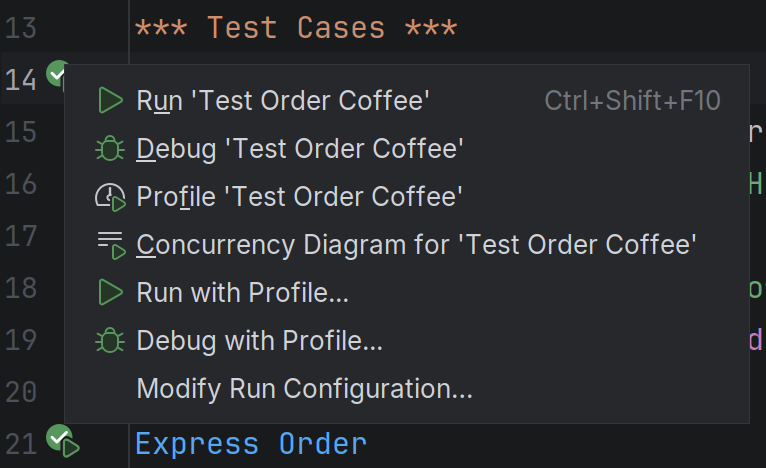
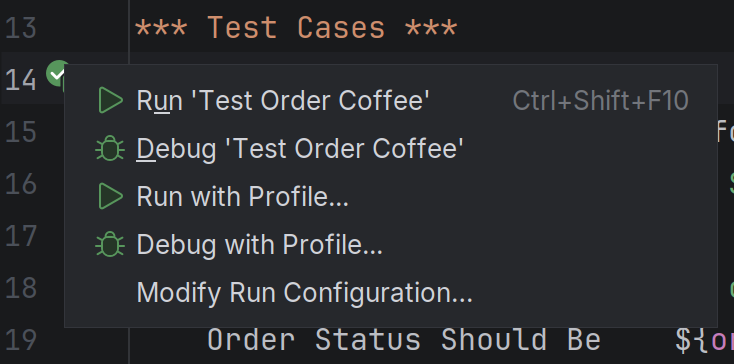
fix(intellij): leave PyCharm's profilers out of the run marker menu
The menu of a run marker no longer offers PyCharm Professional's Profile and
Concurrency Diagram, which Robot Framework runs don't support. Concurrency
Diagram, which More Run/Debug and the run widget still offer, now ends with a
message as Profile does, instead of running the test under PyCharm's debugger.

diff --git a/intellij-client/src/test/kotlin/dev/robotcode/robotcode4ij/execution/RobotCodeRunMarkerExecutorsTest.kt b/intellij-client/src/test/kotlin/dev/robotcode/robotcode4ij/execution/RobotCodeRunMarkerExecutorsTest.kt
@@ -1,0 +1,102 @@
+package dev.robotcode.robotcode4ij.execution
+
+import com.intellij.execution.Executor
+import com.intellij.execution.ExecutorRegistry
+import com.intellij.execution.executors.DefaultDebugExecutor
+import com.intellij.execution.executors.DefaultRunExecutor
+import com.intellij.execution.lineMarker.ExecutorAction
+import com.intellij.execution.lineMarker.RunLineMarkerContributor
+import com.intellij.icons.AllIcons
+import com.intellij.openapi.actionSystem.ActionManager
+import com.intellij.openapi.actionSystem.AnAction
+import com.intellij.openapi.wm.ToolWindowId
+import com.intellij.psi.PsiDocumentManager
+import com.intellij.testFramework.fixtures.BasePlatformTestCase
+import dev.robotcode.robotcode4ij.actions.DEBUG_WITH_PROFILE_ACTION_ID
+import dev.robotcode.robotcode4ij.actions.RUN_WITH_PROFILE_ACTION_ID
+import dev.robotcode.robotcode4ij.testing.Position
+import dev.robotcode.robotcode4ij.testing.Range
+import dev.robotcode.robotcode4ij.testing.RobotCodeTestItem
+import dev.robotcode.robotcode4ij.testing.testManger
+import dev.robotcode.robotcode4ij.testing.uri
+import javax.swing.Icon
+
+private const val OTHER_EXECUTOR_ID = "dev.robotcode.robotcode4ij.test.OtherExecutor"
+
+// an executor besides Run and Debug, as PyCharm Professional's profiler group is one; the platform registers its
+// context action, so that the gutter offers it
+private class OtherExecutor : Executor() {
+    override fun getToolWindowId(): String = ToolWindowId.RUN
+    override fun getToolWindowIcon(): Icon = AllIcons.Actions.Execute
+    override fun getIcon(): Icon = AllIcons.Actions.Execute
+    override fun getDisabledIcon(): Icon? = null
+    override fun getDescription(): String = "Runs with another tool"
+    override fun getActionName(): String = "Other"
+    override fun getId(): String = OTHER_EXECUTOR_ID
+    override fun getStartActionText(): String = "Run with Other"
+    override fun getContextActionId(): String = "$OTHER_EXECUTOR_ID.context"
+    override fun getHelpId(): String? = null
+}
+
+class RobotCodeRunMarkerExecutorsTest : BasePlatformTestCase() {
+
+    override fun setUp() {
+        super.setUp()
+        // the registry adds the context action of an executor that is registered later
+        ExecutorRegistry.getInstance()
+        Executor.EXECUTOR_EXTENSION_NAME.point.registerExtension(OtherExecutor(), testRootDisposable)
+    }
+
+    override fun tearDown() {
+        try {
+            project.testManger.setTestItemsForTests(arrayOf())
+        } finally {
+            super.tearDown()
+        }
+    }
+
+    // a test "First" on the second line of a suite file
+    private fun suiteWithOneTest() {
+        val file = myFixture.configureByText("suite.robot", "*** Test Cases ***\nFirst\n    Log    first\n").virtualFile
+        val test = RobotCodeTestItem(
+            type = "test", id = "suite.First", name = "First", longname = "Suite.First", lineno = 2,
+            uri = file.uri, source = file.path, range = Range(Position(1u, 0u), Position(1u, 5u))
+        )
+        val suite = RobotCodeTestItem(
+            type = "suite", id = "suite", name = "Suite", longname = "Suite", uri = file.uri, source = file.path,
+            children = arrayOf(test)
+        )
+        project.testManger.setTestItemsForTests(arrayOf(suite))
+    }
+
+    private fun executorIds(actions: Array<AnAction>) = actions.filterIsInstance<ExecutorAction>().map { it.executor.id }
+
+    private fun assertOnlyRunAndDebugAmongTheExecutors(info: RunLineMarkerContributor.Info?) {
+        val gutter = ExecutorAction.getActions(1)
+        assertTrue(OTHER_EXECUTOR_ID in executorIds(gutter))
+
+        val actions = info!!.actions
+        val manager = ActionManager.getInstance()
+        val extras = gutter.filter { it !is ExecutorAction }
+
+        assertEquals(listOf(DefaultRunExecutor.EXECUTOR_ID, DefaultDebugExecutor.EXECUTOR_ID), executorIds(actions))
+        assertEquals(listOf(RUN_WITH_PROFILE_ACTION_ID, DEBUG_WITH_PROFILE_ACTION_ID), actions.drop(2).take(2).map {
+            manager.getId(it)
+        })
+        assertEquals(extras, actions.drop(4))
+    }
+
+    fun testTheRunMarkerOfATestOffersOnlyRunAndDebugAmongTheExecutors() {
+        suiteWithOneTest()
+        val document = PsiDocumentManager.getInstance(project).getDocument(myFixture.file)!!
+        val testName = myFixture.file.findElementAt(document.getLineStartOffset(1))!!
+
+        assertOnlyRunAndDebugAmongTheExecutors(RobotCodeRunLineMarkerContributor().getInfo(testName))
+    }
+
+    fun testTheRunMarkerOfASuiteOffersOnlyRunAndDebugAmongTheExecutors() {
+        suiteWithOneTest()
+
+        assertOnlyRunAndDebugAmongTheExecutors(RobotCodeRunLineMarkerContributor().getInfo(myFixture.file))
+    }
+}

diff --git a/intellij-client/src/test/kotlin/dev/robotcode/robotcode4ij/execution/RobotCodeProfileRunnerTest.kt b/intellij-client/src/test/kotlin/dev/robotcode/robotcode4ij/execution/RobotCodeProfileRunnerTest.kt
@@ -1,0 +1,75 @@
+package dev.robotcode.robotcode4ij.execution
+
+import com.intellij.execution.Executor
+import com.intellij.execution.configurations.RunConfiguration
+import com.intellij.execution.configurations.RunProfile
+import com.intellij.execution.configurations.RunProfileState
+import com.intellij.execution.configurations.runConfigurationType
+import com.intellij.execution.executors.DefaultDebugExecutor
+import com.intellij.execution.executors.DefaultRunExecutor
+import com.intellij.execution.runners.ExecutionEnvironment
+import com.intellij.execution.runners.ExecutionEnvironmentBuilder
+import com.intellij.icons.AllIcons
+import com.intellij.openapi.wm.ToolWindowId
+import com.intellij.testFramework.fixtures.BasePlatformTestCase
+import javax.swing.Icon
+
+// an executor with the id of one of PyCharm Professional's, which the IDE of the tests need not have
+private class ExecutorWithId(private val id: String) : Executor() {
+    override fun getToolWindowId(): String = ToolWindowId.RUN
+    override fun getToolWindowIcon(): Icon = AllIcons.Actions.Execute
+    override fun getIcon(): Icon = AllIcons.Actions.Execute
+    override fun getDisabledIcon(): Icon? = null
+    override fun getDescription(): String = id
+    override fun getActionName(): String = id
+    override fun getId(): String = id
+    override fun getStartActionText(): String = id
+    override fun getContextActionId(): String = "$id.context"
+    override fun getHelpId(): String? = null
+}
+
+class RobotCodeProfileRunnerTest : BasePlatformTestCase() {
+
+    private val runner = RobotCodeProfileRunner()
+
+    private fun robotConfiguration(): RunConfiguration =
+        runConfigurationType<RobotCodeConfigurationType>().configurationFactories.first()
+            .createTemplateConfiguration(project)
+
+    fun testTakesProfileAndConcurrencyDiagramOfARobotFrameworkConfiguration() {
+        val configuration = robotConfiguration()
+
+        assertTrue(runner.canRun("Profiler", configuration))
+        assertTrue(runner.canRun("ConcurrencyExecutor", configuration))
+    }
+
+    fun testTakesNoOtherExecutorAndNoOtherConfiguration() {
+        val configuration = robotConfiguration()
+        val other = object : RunProfile {
+            override fun getState(executor: Executor, environment: ExecutionEnvironment): RunProfileState? = null
+            override fun getName(): String = "Python"
+            override fun getIcon(): Icon? = null
+        }
+
+        assertFalse(runner.canRun(DefaultRunExecutor.EXECUTOR_ID, configuration))
+        assertFalse(runner.canRun(DefaultDebugExecutor.EXECUTOR_ID, configuration))
+        assertFalse(runner.canRun("Profiler", other))
+        assertFalse(runner.canRun("ConcurrencyExecutor", other))
+    }
+
+    fun testEndsEachRunWithTheMessageOfItsExecutor() {
+        val messages = mapOf(
+            "Profiler" to "Robot Framework runs cannot be profiled.",
+            "ConcurrencyExecutor" to "Robot Framework runs have no concurrency diagram.",
+        )
+        for ((executorId, message) in messages) {
+            val environment =
+                ExecutionEnvironmentBuilder.create(project, ExecutorWithId(executorId), robotConfiguration()).build()
+            var error: Throwable? = null
+
+            unsupportedRun(environment).onError { error = it }
+
+            assertEquals(message, error?.message)
+        }
+    }
+}

diff --git a/intellij-client/src/main/kotlin/dev/robotcode/robotcode4ij/execution/RobotCodeProgramRunner.kt b/intellij-client/src/main/kotlin/dev/robotcode/robotcode4ij/execution/RobotCodeProgramRunner.kt
@@ -67,21 +67,34 @@ class RobotCodeProgramRunner : AsyncProgramRunner<RunnerSettings>() {
     }
 }
 
+// the ids of the executors of PyCharm Professional's "Profile" and "Concurrency Diagram"
+private const val PROFILER_EXECUTOR_ID = "Profiler"
+private const val CONCURRENCY_DIAGRAM_EXECUTOR_ID = "ConcurrencyExecutor"
+
+/** The end of a run of [environment] with the message that Robot Framework runs do not support its executor. */
+internal fun unsupportedRun(environment: ExecutionEnvironment): Promise<RunContentDescriptor?> {
+    val key = when (environment.executor.id) {
+        CONCURRENCY_DIAGRAM_EXECUTOR_ID -> "run.concurrencyDiagram.notSupported"
+        else -> "run.profile.notSupported"
+    }
+    return rejectedPromise(ExecutionException(RobotCodeBundle.message(key)))
+}
+
 /**
- * Takes PyCharm Professional's "Profile" for Robot Framework configurations, which its profiler runner would otherwise
- * accept as Python run configurations, and ends it with a message.
+ * Takes PyCharm Professional's "Profile" and "Concurrency Diagram" for Robot Framework configurations, which its
+ * runners would otherwise accept as Python run configurations, and ends them with a message.
  */
 class RobotCodeProfileRunner : AsyncProgramRunner<RunnerSettings>() {
     override fun getRunnerId(): String {
         return "dev.robotcode.robotcode4ij.execution.RobotCodeProfileRunner"
     }
-    
-    // the id of PyCharm Professional's profiler executor
+
     override fun canRun(executorId: String, profile: RunProfile): Boolean {
-        return executorId == "Profiler" && isRobotRunProfile(profile)
+        return (executorId == PROFILER_EXECUTOR_ID || executorId == CONCURRENCY_DIAGRAM_EXECUTOR_ID) &&
+            isRobotRunProfile(profile)
     }
-    
+
     override fun execute(environment: ExecutionEnvironment, state: RunProfileState): Promise<RunContentDescriptor?> {
-        return rejectedPromise(ExecutionException(RobotCodeBundle.message("run.profile.notSupported")))
+        return unsupportedRun(environment)
     }
 }

diff --git a/intellij-client/src/main/kotlin/dev/robotcode/robotcode4ij/execution/RobotCodeRunLineMarkerContributor.kt b/intellij-client/src/main/kotlin/dev/robotcode/robotcode4ij/execution/RobotCodeRunLineMarkerContributor.kt
@@ -1,6 +1,10 @@
 package dev.robotcode.robotcode4ij.execution
 
+import com.intellij.execution.executors.DefaultDebugExecutor
+import com.intellij.execution.executors.DefaultRunExecutor
+import com.intellij.execution.lineMarker.ExecutorAction
 import com.intellij.execution.lineMarker.RunLineMarkerContributor
+import com.intellij.openapi.actionSystem.AnAction
 import com.intellij.openapi.project.DumbAware
 import com.intellij.psi.PsiElement
 import com.intellij.util.Urls.newLocalFileUrl
@@ -24,6 +28,15 @@ internal fun runMarkerKind(item: RobotCodeTestItem): RunMarkerKind? {
     }
 }
 
+// the executors that RobotCode's runners take; others, such as PyCharm Professional's Profile and Concurrency Diagram
+// in its profiler group, don't support Robot Framework runs
+private val RUN_MARKER_EXECUTORS = setOf(DefaultRunExecutor.EXECUTOR_ID, DefaultDebugExecutor.EXECUTOR_ID)
+
+/** The [gutterActions] of a run marker without the executor actions of executors other than Run and Debug. */
+internal fun withRobotExecutors(gutterActions: Array<AnAction>): Array<AnAction> {
+    return gutterActions.filter { it !is ExecutorAction || it.executor.id in RUN_MARKER_EXECUTORS }.toTypedArray()
+}
+
 // the markers read the discovery result, not the indexes, so they stay while the IDE indexes
 class RobotCodeRunLineMarkerContributor : RunLineMarkerContributor(), DumbAware {
     override fun getInfo(element: PsiElement): Info? {
@@ -37,7 +50,7 @@ class RobotCodeRunLineMarkerContributor : RunLineMarkerContributor(), DumbAware 
         val icon = getTestStateIcon(uri.toString(), element.project, kind == RunMarkerKind.SUITE)
         val info = withExecutorActions(icon)
         // running once with a profile comes after the executor actions, before "Modify Run Configuration..."
-        val actions = withProfileActions(info.actions)
+        val actions = withProfileActions(withRobotExecutors(info.actions))
 
         // the marker on line 1 also shows the problems that discovery reported for the file
         val problems =
